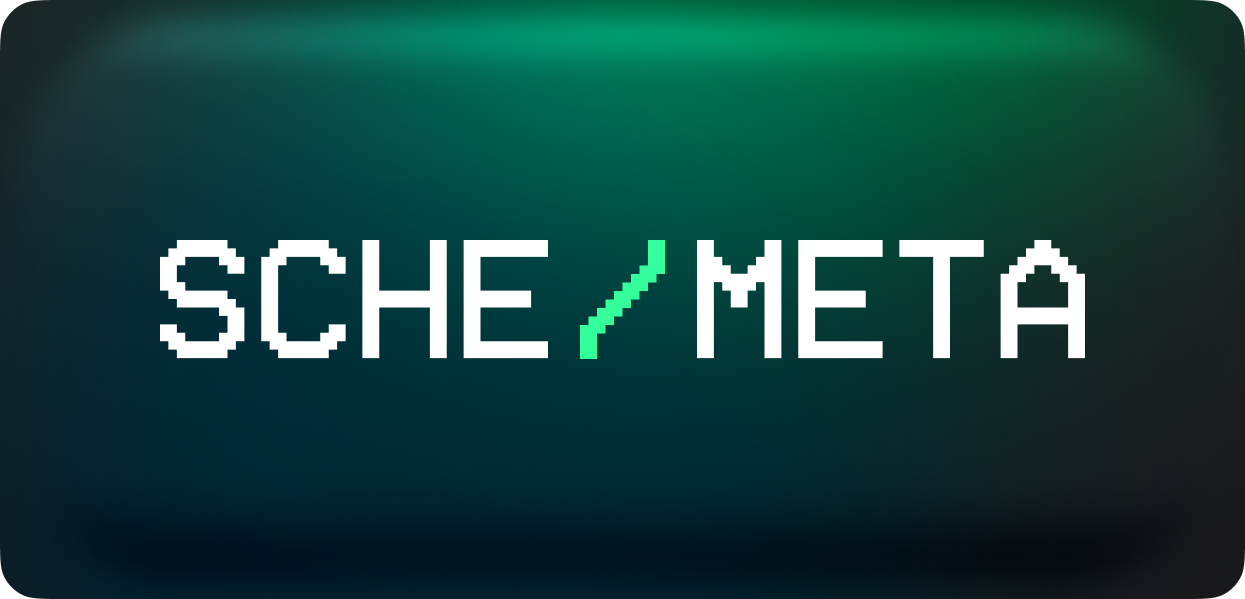
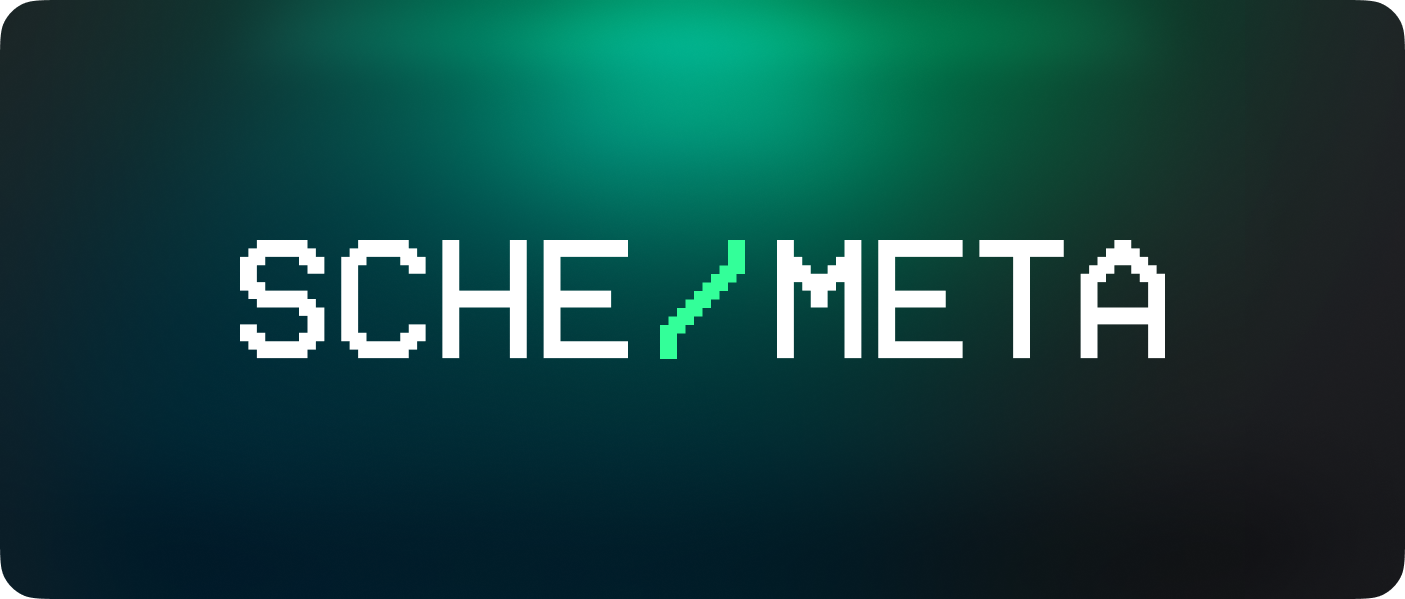
docs: Update readme + images (#16)
* Adds readme notes

* Update image assets

* fix linting

diff --git a/README.md b/README.md
@@ -1,5 +1,5 @@
 <p align="center">
- <img src="https://github.com/OllieJT/schemeta/blob/main/static/banner.png?raw=true" width="600" height="288" alt="sche/ma in a pixelated monospaced font, on a blue-green glowing background">
+ <img src="https://github.com/OllieJT/schemeta/blob/main/static/banner.png?raw=true" width="676" height="288" alt="sche/ma in a pixelated monospaced font, on a blue-green glowing background">
 </p>
 
 <h1 align="center">
@@ -17,6 +17,7 @@
 
 </div>
 
+- [Why does this exist?](#why-does-this-exist)
 - [Features](#features)
 - [Supported Metadata](#supported-metadata)
 - [Overview](#overview)
@@ -37,6 +38,14 @@
   - [Svelte Example](#svelte-example)
   - [React Example](#react-example)
 
+## Why does this exist?
+
+You might be thinking, why does this exist? You're not crazy. Metadata is simple, repeatable, and boring. It's exactly this kind of boilerplate that I want to avoid in my work, and the kind of task that is easily overlooked while prioritising more unique tasks.
+
+Schemeta was created to codify the building of metadata for a page, or site. Much like how frameworks impose a concise and repeatable structure to rabidly scaffold the common needs of projects - Schemeta provides a universal type-safe solution for making the most out of tags.
+
+Finally, there are many metadata specifications, and values that are overlooked or skipped; like JSON-LD, or Apple Web-App tags. With type-safe methods, I hope it will be easier for consumers of this package to disover new ways to express their data to support their users, or promote their content.
+
 ## Features
 
 - 🥫 Open Source
@@ -48,7 +57,8 @@
 
 ## Supported Metadata
 
-Are we missing any? [file an issue](https://github.com/OllieJT/schemeta/issues) to let us know.
+> [!NOTE]
+> Are we missing any? [file an issue](https://github.com/OllieJT/schemeta/issues) to let us know.
 
 | Source    | Type                                                                       | Details                                                                                                                                                                                                                                                                                                                             |
 | --------- | -------------------------------------------------------------------------- | ----------------------------------------------------------------------------------------------------------------------------------------------------------------------------------------------------------------------------------------------------------------------------------------------------------------------------------- |
@@ -221,7 +231,8 @@ metadata
 | helper: `.site_name(string)`   | Adds several site name values like `og:site_name` & `apple-mobile-web-app-title`  |
 | helper: `.type(type, params)`  | Adds `og:type` and optional related OpenGraph values                              |
 
-We plan to add more helper methods to reduce boilerplate.
+> [!NOTE]
+> Got an idea for a common helper method? [file an issue](https://github.com/OllieJT/schemeta/issues) to let us know, or better yet submit a PR!
 
 #### Render elements
 

diff --git a/.changeset/wicked-numbers-hunt.md b/.changeset/wicked-numbers-hunt.md
@@ -1,0 +1,5 @@
+---
+"schemeta": patch
+---
+
+Update readme notes
